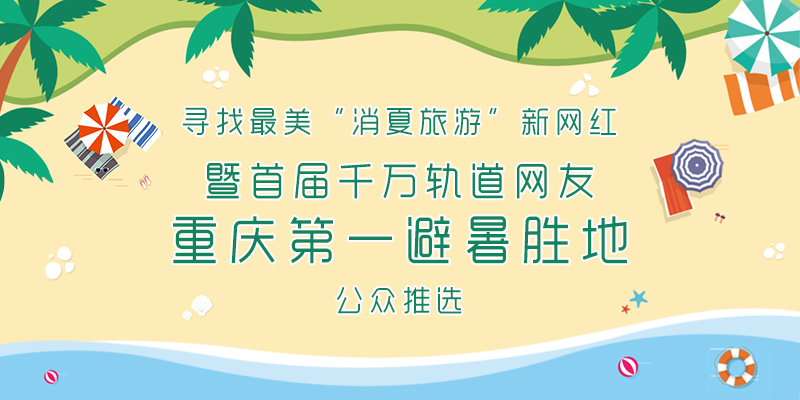
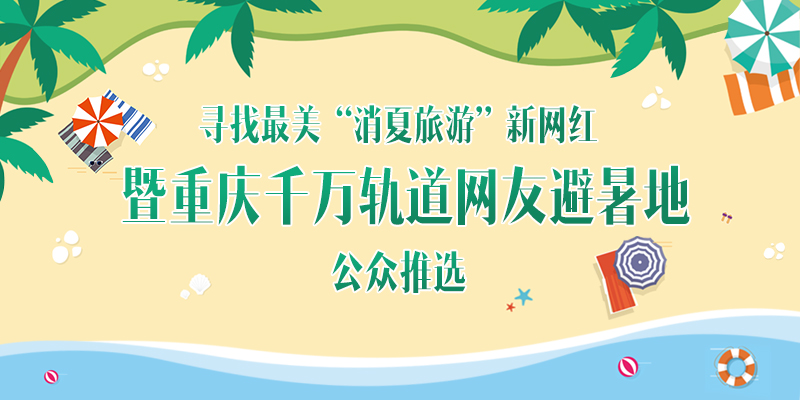
分享等细节调整

diff --git a/template/style.css b/template/style.css
@@ -121,7 +121,6 @@ body{
 	font-size: 14px;
 	margin: 2% 4%;
 	font-weight: bold;
-	width: 20%;
 }
 /*底部导航*/
 .nav_bottom{
